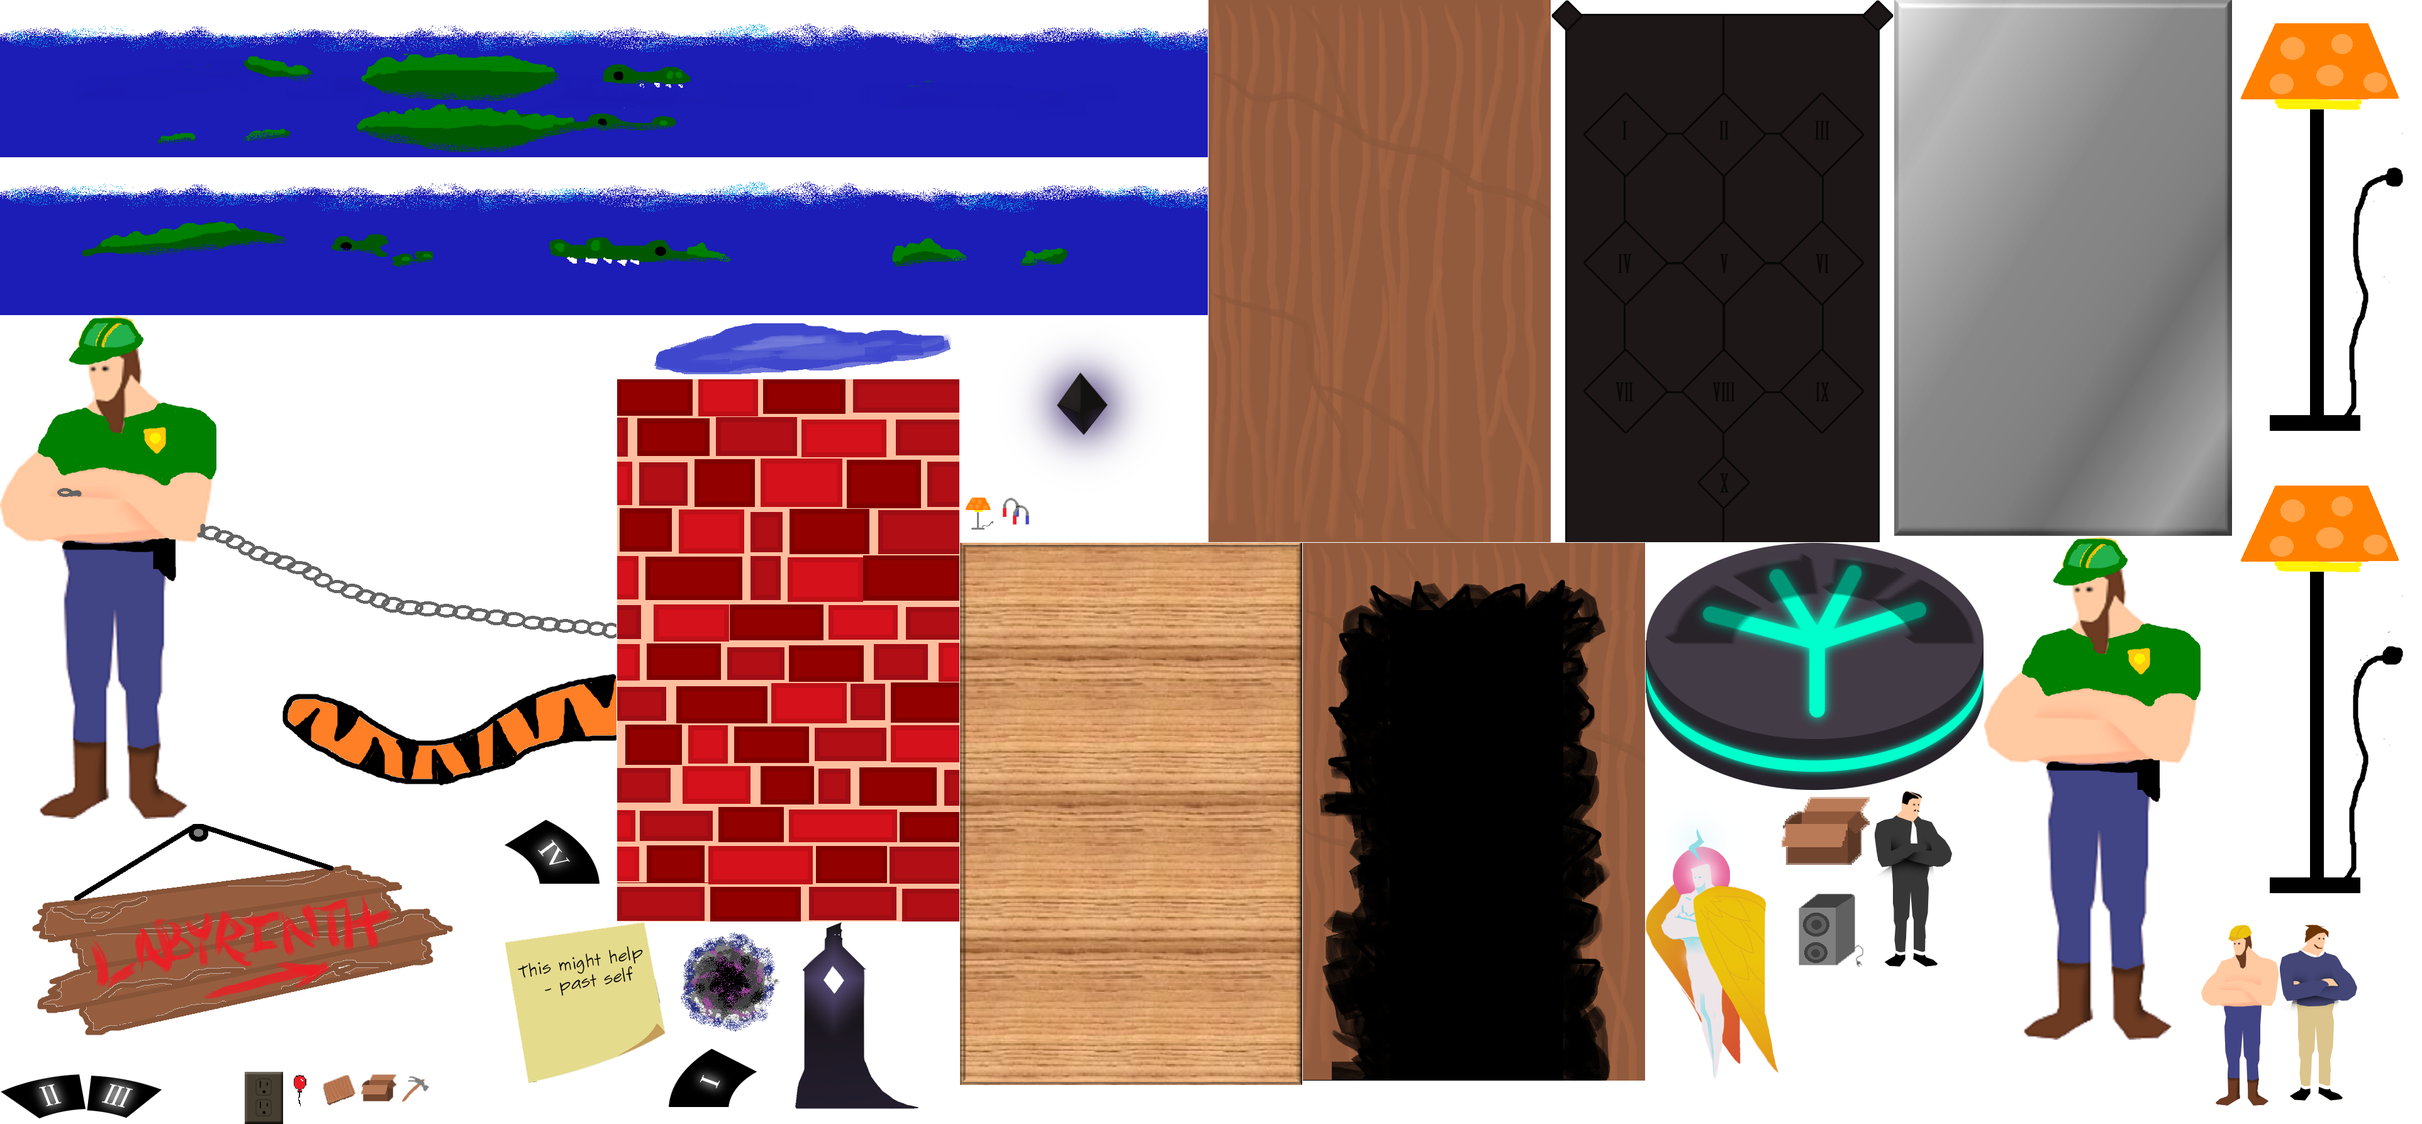
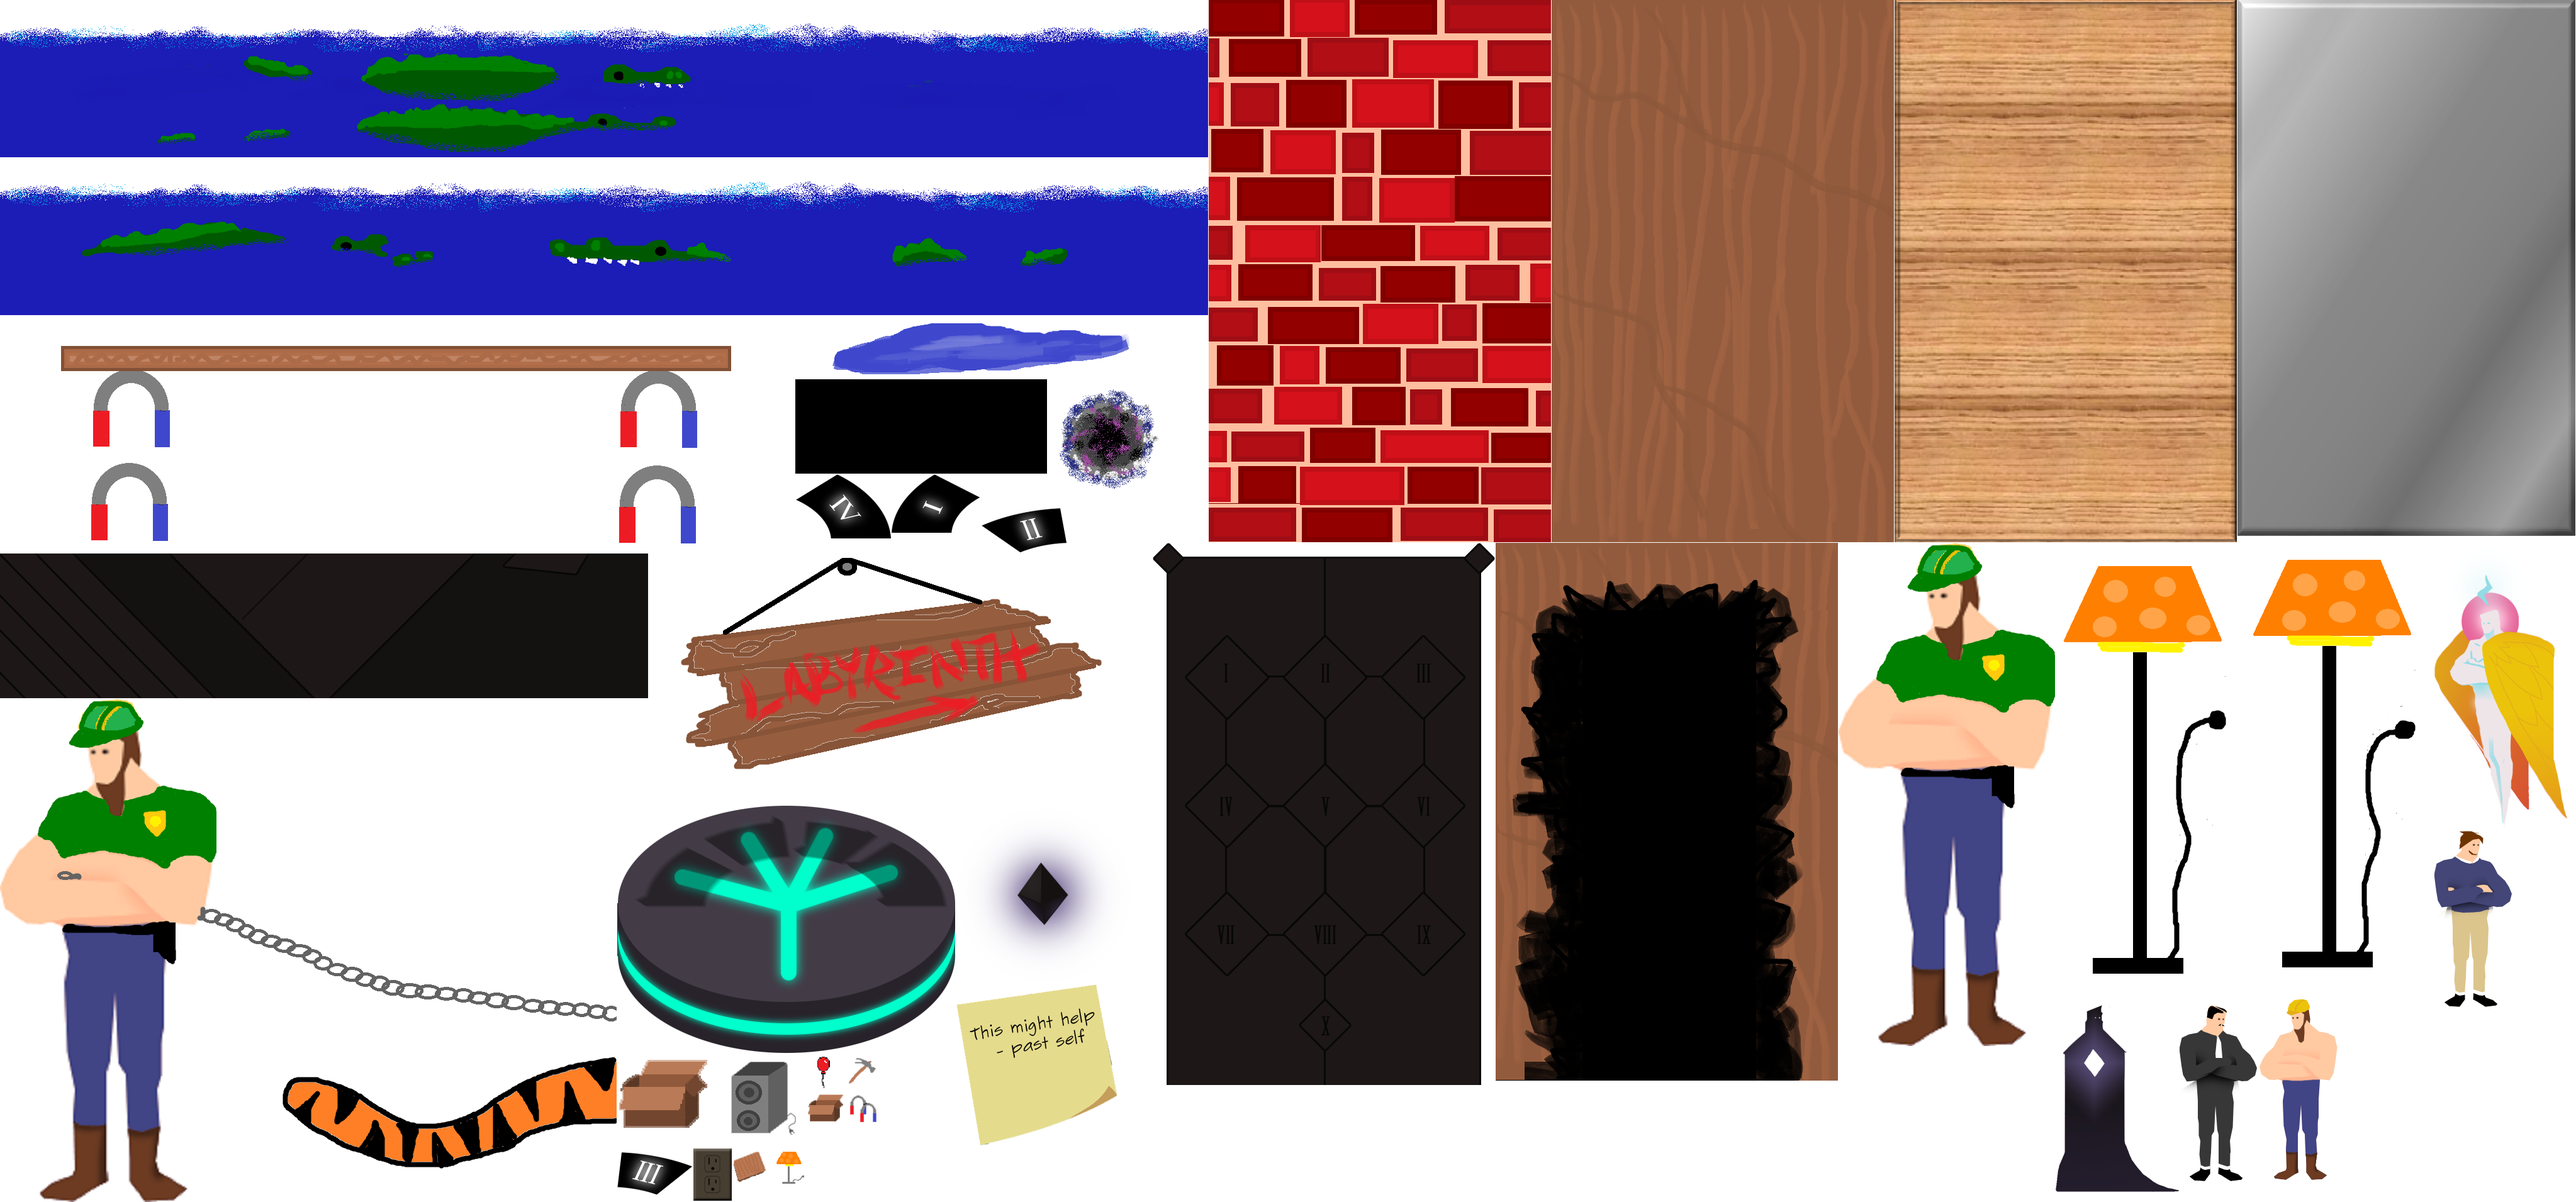
even more pictures

diff --git a/index.bundle.js b/index.bundle.js
@@ -45000,19 +45000,25 @@ PrisonScene.prototype.added = function()
 
 	// create floor
 	var floor = ThreeUtils.makeAtlasMesh(atlas, "prison1_floor");
+	this.floor = floor;
 	this.transform.add(floor);
 	floor.scale.set(2*1920/atlas.getSpriteWidth("prison1_floor"), 1, 1);
 	floor.position.set(0,
 		GameEngine.screenHeight/2 - atlas.getSpriteHeight("prison1_floor")/2,
 		-10);
 	floor.z = -10;
-	
+
 	Scene.prototype.added.call(this);
 }
 
 PrisonScene.prototype.update = function()
 {
 	Scene.prototype.update.call(this);
+}
+
+PrisonScene.prototype.removeFloor = function()
+{
+	this.floor.position.set(0,1000);
 }
 
 module.exports = PrisonScene;
@@ -47082,20 +47088,31 @@ PrisonScene7.prototype.added = function()
 		target: "prison8",
 		globalIsTrue: ["MAGNETS_PLACED","CARDBOARD_PLACED"]
 	})
-	doorClickTarget.addAction({
+
+	var edge_left = this.createClickableSprite("pit_edge", -800, 450);
+	var edge_right = this.createClickableSprite("pit_edge", 800, 450);
+	var pitClickTarget = this.createClickableRegion(0, 450, 1600, 300);
+	pitClickTarget.addAction({
 		action: "interact",
 		target: "magnets",
 		setGlobals: ["MAGNETS_PLACED"],
 		continue: true
 	})
-	doorClickTarget.addAction({
+	pitClickTarget.addAction({
 		action: "interact",
 		target: "cardboard",
 		setGlobals: ["CARDBOARD_PLACED"],
 		globalIsTrue: ["MAGNETS_PLACED"]
 	})
+	var pitMagnets = this.createClickableSprite("pit_magnets", 0, 450);
+	pitMagnets.addTrue("MAGNETS_PLACED");
+	pitMagnets.addFalse("CARDBOARD_PLACED");
+	var pitBridge = this.createClickableSprite("pit_bridge", 0, 450);
+	pitBridge.addTrue("CARDBOARD_PLACED");
 
 	PrisonScene.prototype.added.call(this);
+	this.removeFloor();
+
 }
 
 PrisonScene7.prototype.update = function()
@@ -47558,49 +47575,53 @@ module.exports =
 "general":
 {
 	url: "media/general_atlas.png",
-	width: 3850,
-	height: 1787,
+	width: 4094,
+	height: 1911,
 	filter: THREE.LinearFilter,
 	sprites:
 	{
-	"balloon":[451,1704,60,60],
-	"brickwall":[981,603,544,862],
-	"builder_guy":[3499,1470,124,288],
-	"cardboard":[512,1704,60,60],
-	"cardboardbox":[573,1704,60,60],
-	"cardboardboxlarge":[2829,1257,150,150],
-	"cardboardWall":[1921,0,544,862],
-	"cardboardWallBroken":[2071,863,544,855],
-	"crystal":[1582,502,281,283],
-	"grad_circle":[259,1704,64,64],
-	"grad_r":[324,1704,64,64],
-	"guard":[3154,853,344,800],
-	"guardandtiger":[0,502,980,800],
-	"hammer":[634,1704,60,60],
-	"heaven_angel":[2616,1257,212,467],
-	"heaven_player":[1264,1466,196,297],
-	"keydoor":[2466,0,544,862],
-	"labyrinth_sign":[0,1303,800,400],
-	"lamp":[1526,786,60,60],
-	"lampbig":[3549,0,300,734],
-	"lamplarge":[3549,735,300,734],
-	"magnets":[1587,786,60,60],
+	"balloon":[1283,1675,60,60],
+	"brickwall":[1921,0,544,862],
+	"builder_guy":[3591,1588,124,288],
+	"cardboard":[1164,1826,60,60],
+	"cardboardbox":[1283,1736,60,60],
+	"cardboardboxlarge":[981,1675,150,150],
+	"cardboardWall":[2466,0,544,862],
+	"cardboardWallBroken":[2377,863,544,855],
+	"crystal":[1519,1281,281,283],
+	"empty_pit":[0,880,1030,230],
+	"grad_circle":[1697,804,64,64],
+	"grad_r":[1762,804,64,64],
+	"guard":[2922,863,344,800],
+	"guardandtiger":[0,1111,980,800],
+	"hammer":[1344,1675,60,60],
+	"heaven_angel":[3869,853,212,467],
+	"heaven_player":[3267,1598,196,297],
+	"keydoor":[1832,863,544,862],
+	"labyrinth_sign":[1031,880,800,400],
+	"lamp":[1225,1826,60,60],
+	"lampbig":[3267,863,300,734],
+	"lamplarge":[3568,853,300,734],
+	"magnets":[1344,1736,60,60],
 	"moat_full":[0,0,1920,250],
 	"moat_hungry":[0,251,1920,250],
-	"normal_guy_sprite":[3624,1470,124,280],
-	"outlet":[389,1704,61,83],
-	"puddle":[981,502,600,100],
-	"speaker":[2829,1408,150,150],
-	"steelwall":[3011,0,537,852],
-	"suit_sprite":[2980,1257,126,280],
-	"timedevice":[2616,863,537,393],
-	"timedevice_button1":[1063,1667,141,93],
-	"timedevice_button2":[0,1704,137,75],
-	"timedevice_button3":[138,1704,120,76],
-	"timedevice_button4":[801,1303,152,102],
-	"timedevice_sticky":[801,1466,261,257],
-	"woodwall":[1526,863,544,862],
-	"wormhole":[1063,1466,200,200],
+	"normal_guy_sprite":[3869,1321,124,280],
+	"outlet":[1102,1826,61,83],
+	"pit_bridge":[0,502,1263,226],
+	"pit_edge":[1264,603,400,150],
+	"pit_magnets":[0,729,1263,150],
+	"puddle":[1264,502,600,100],
+	"speaker":[1132,1675,150,150],
+	"steelwall":[3556,0,537,852],
+	"suit_sprite":[3464,1598,126,280],
+	"timedevice":[981,1281,537,393],
+	"timedevice_button1":[1417,754,141,93],
+	"timedevice_button2":[1559,804,137,75],
+	"timedevice_button3":[981,1826,120,76],
+	"timedevice_button4":[1264,754,152,102],
+	"timedevice_sticky":[1519,1565,261,257],
+	"woodwall":[3011,0,544,862],
+	"wormhole":[1665,603,200,200],
 	},
 },
 "heaven":

diff --git a/src/sdk/atlases/index.js b/src/sdk/atlases/index.js
@@ -9,49 +9,53 @@ module.exports =
 "general":
 {
 	url: "media/general_atlas.png",
-	width: 3850,
-	height: 1787,
+	width: 4094,
+	height: 1911,
 	filter: THREE.LinearFilter,
 	sprites:
 	{
-	"balloon":[451,1704,60,60],
-	"brickwall":[981,603,544,862],
-	"builder_guy":[3499,1470,124,288],
-	"cardboard":[512,1704,60,60],
-	"cardboardbox":[573,1704,60,60],
-	"cardboardboxlarge":[2829,1257,150,150],
-	"cardboardWall":[1921,0,544,862],
-	"cardboardWallBroken":[2071,863,544,855],
-	"crystal":[1582,502,281,283],
-	"grad_circle":[259,1704,64,64],
-	"grad_r":[324,1704,64,64],
-	"guard":[3154,853,344,800],
-	"guardandtiger":[0,502,980,800],
-	"hammer":[634,1704,60,60],
-	"heaven_angel":[2616,1257,212,467],
-	"heaven_player":[1264,1466,196,297],
-	"keydoor":[2466,0,544,862],
-	"labyrinth_sign":[0,1303,800,400],
-	"lamp":[1526,786,60,60],
-	"lampbig":[3549,0,300,734],
-	"lamplarge":[3549,735,300,734],
-	"magnets":[1587,786,60,60],
+	"balloon":[1283,1675,60,60],
+	"brickwall":[1921,0,544,862],
+	"builder_guy":[3591,1588,124,288],
+	"cardboard":[1164,1826,60,60],
+	"cardboardbox":[1283,1736,60,60],
+	"cardboardboxlarge":[981,1675,150,150],
+	"cardboardWall":[2466,0,544,862],
+	"cardboardWallBroken":[2377,863,544,855],
+	"crystal":[1519,1281,281,283],
+	"empty_pit":[0,880,1030,230],
+	"grad_circle":[1697,804,64,64],
+	"grad_r":[1762,804,64,64],
+	"guard":[2922,863,344,800],
+	"guardandtiger":[0,1111,980,800],
+	"hammer":[1344,1675,60,60],
+	"heaven_angel":[3869,853,212,467],
+	"heaven_player":[3267,1598,196,297],
+	"keydoor":[1832,863,544,862],
+	"labyrinth_sign":[1031,880,800,400],
+	"lamp":[1225,1826,60,60],
+	"lampbig":[3267,863,300,734],
+	"lamplarge":[3568,853,300,734],
+	"magnets":[1344,1736,60,60],
 	"moat_full":[0,0,1920,250],
 	"moat_hungry":[0,251,1920,250],
-	"normal_guy_sprite":[3624,1470,124,280],
-	"outlet":[389,1704,61,83],
-	"puddle":[981,502,600,100],
-	"speaker":[2829,1408,150,150],
-	"steelwall":[3011,0,537,852],
-	"suit_sprite":[2980,1257,126,280],
-	"timedevice":[2616,863,537,393],
-	"timedevice_button1":[1063,1667,141,93],
-	"timedevice_button2":[0,1704,137,75],
-	"timedevice_button3":[138,1704,120,76],
-	"timedevice_button4":[801,1303,152,102],
-	"timedevice_sticky":[801,1466,261,257],
-	"woodwall":[1526,863,544,862],
-	"wormhole":[1063,1466,200,200],
+	"normal_guy_sprite":[3869,1321,124,280],
+	"outlet":[1102,1826,61,83],
+	"pit_bridge":[0,502,1263,226],
+	"pit_edge":[1264,603,400,150],
+	"pit_magnets":[0,729,1263,150],
+	"puddle":[1264,502,600,100],
+	"speaker":[1132,1675,150,150],
+	"steelwall":[3556,0,537,852],
+	"suit_sprite":[3464,1598,126,280],
+	"timedevice":[981,1281,537,393],
+	"timedevice_button1":[1417,754,141,93],
+	"timedevice_button2":[1559,804,137,75],
+	"timedevice_button3":[981,1826,120,76],
+	"timedevice_button4":[1264,754,152,102],
+	"timedevice_sticky":[1519,1565,261,257],
+	"woodwall":[3011,0,544,862],
+	"wormhole":[1665,603,200,200],
 	},
 },
 "heaven":

diff --git a/src/game/scene_prison7.js b/src/game/scene_prison7.js
@@ -37,20 +37,31 @@ PrisonScene7.prototype.added = function()
 		target: "prison8",
 		globalIsTrue: ["MAGNETS_PLACED","CARDBOARD_PLACED"]
 	})
-	doorClickTarget.addAction({
+
+	var edge_left = this.createClickableSprite("pit_edge", -800, 450);
+	var edge_right = this.createClickableSprite("pit_edge", 800, 450);
+	var pitClickTarget = this.createClickableRegion(0, 450, 1600, 300);
+	pitClickTarget.addAction({
 		action: "interact",
 		target: "magnets",
 		setGlobals: ["MAGNETS_PLACED"],
 		continue: true
 	})
-	doorClickTarget.addAction({
+	pitClickTarget.addAction({
 		action: "interact",
 		target: "cardboard",
 		setGlobals: ["CARDBOARD_PLACED"],
 		globalIsTrue: ["MAGNETS_PLACED"]
 	})
+	var pitMagnets = this.createClickableSprite("pit_magnets", 0, 450);
+	pitMagnets.addTrue("MAGNETS_PLACED");
+	pitMagnets.addFalse("CARDBOARD_PLACED");
+	var pitBridge = this.createClickableSprite("pit_bridge", 0, 450);
+	pitBridge.addTrue("CARDBOARD_PLACED");
 
 	PrisonScene.prototype.added.call(this);
+	this.removeFloor();
+
 }
 
 PrisonScene7.prototype.update = function()

diff --git a/src/game/base_prison_scene.js b/src/game/base_prison_scene.js
@@ -29,19 +29,25 @@ PrisonScene.prototype.added = function()
 
 	// create floor
 	var floor = ThreeUtils.makeAtlasMesh(atlas, "prison1_floor");
+	this.floor = floor;
 	this.transform.add(floor);
 	floor.scale.set(2*1920/atlas.getSpriteWidth("prison1_floor"), 1, 1);
 	floor.position.set(0,
 		GameEngine.screenHeight/2 - atlas.getSpriteHeight("prison1_floor")/2,
 		-10);
 	floor.z = -10;
-	
+
 	Scene.prototype.added.call(this);
 }
 
 PrisonScene.prototype.update = function()
 {
 	Scene.prototype.update.call(this);
+}
+
+PrisonScene.prototype.removeFloor = function()
+{
+	this.floor.position.set(0,1000);
 }
 
 module.exports = PrisonScene;
